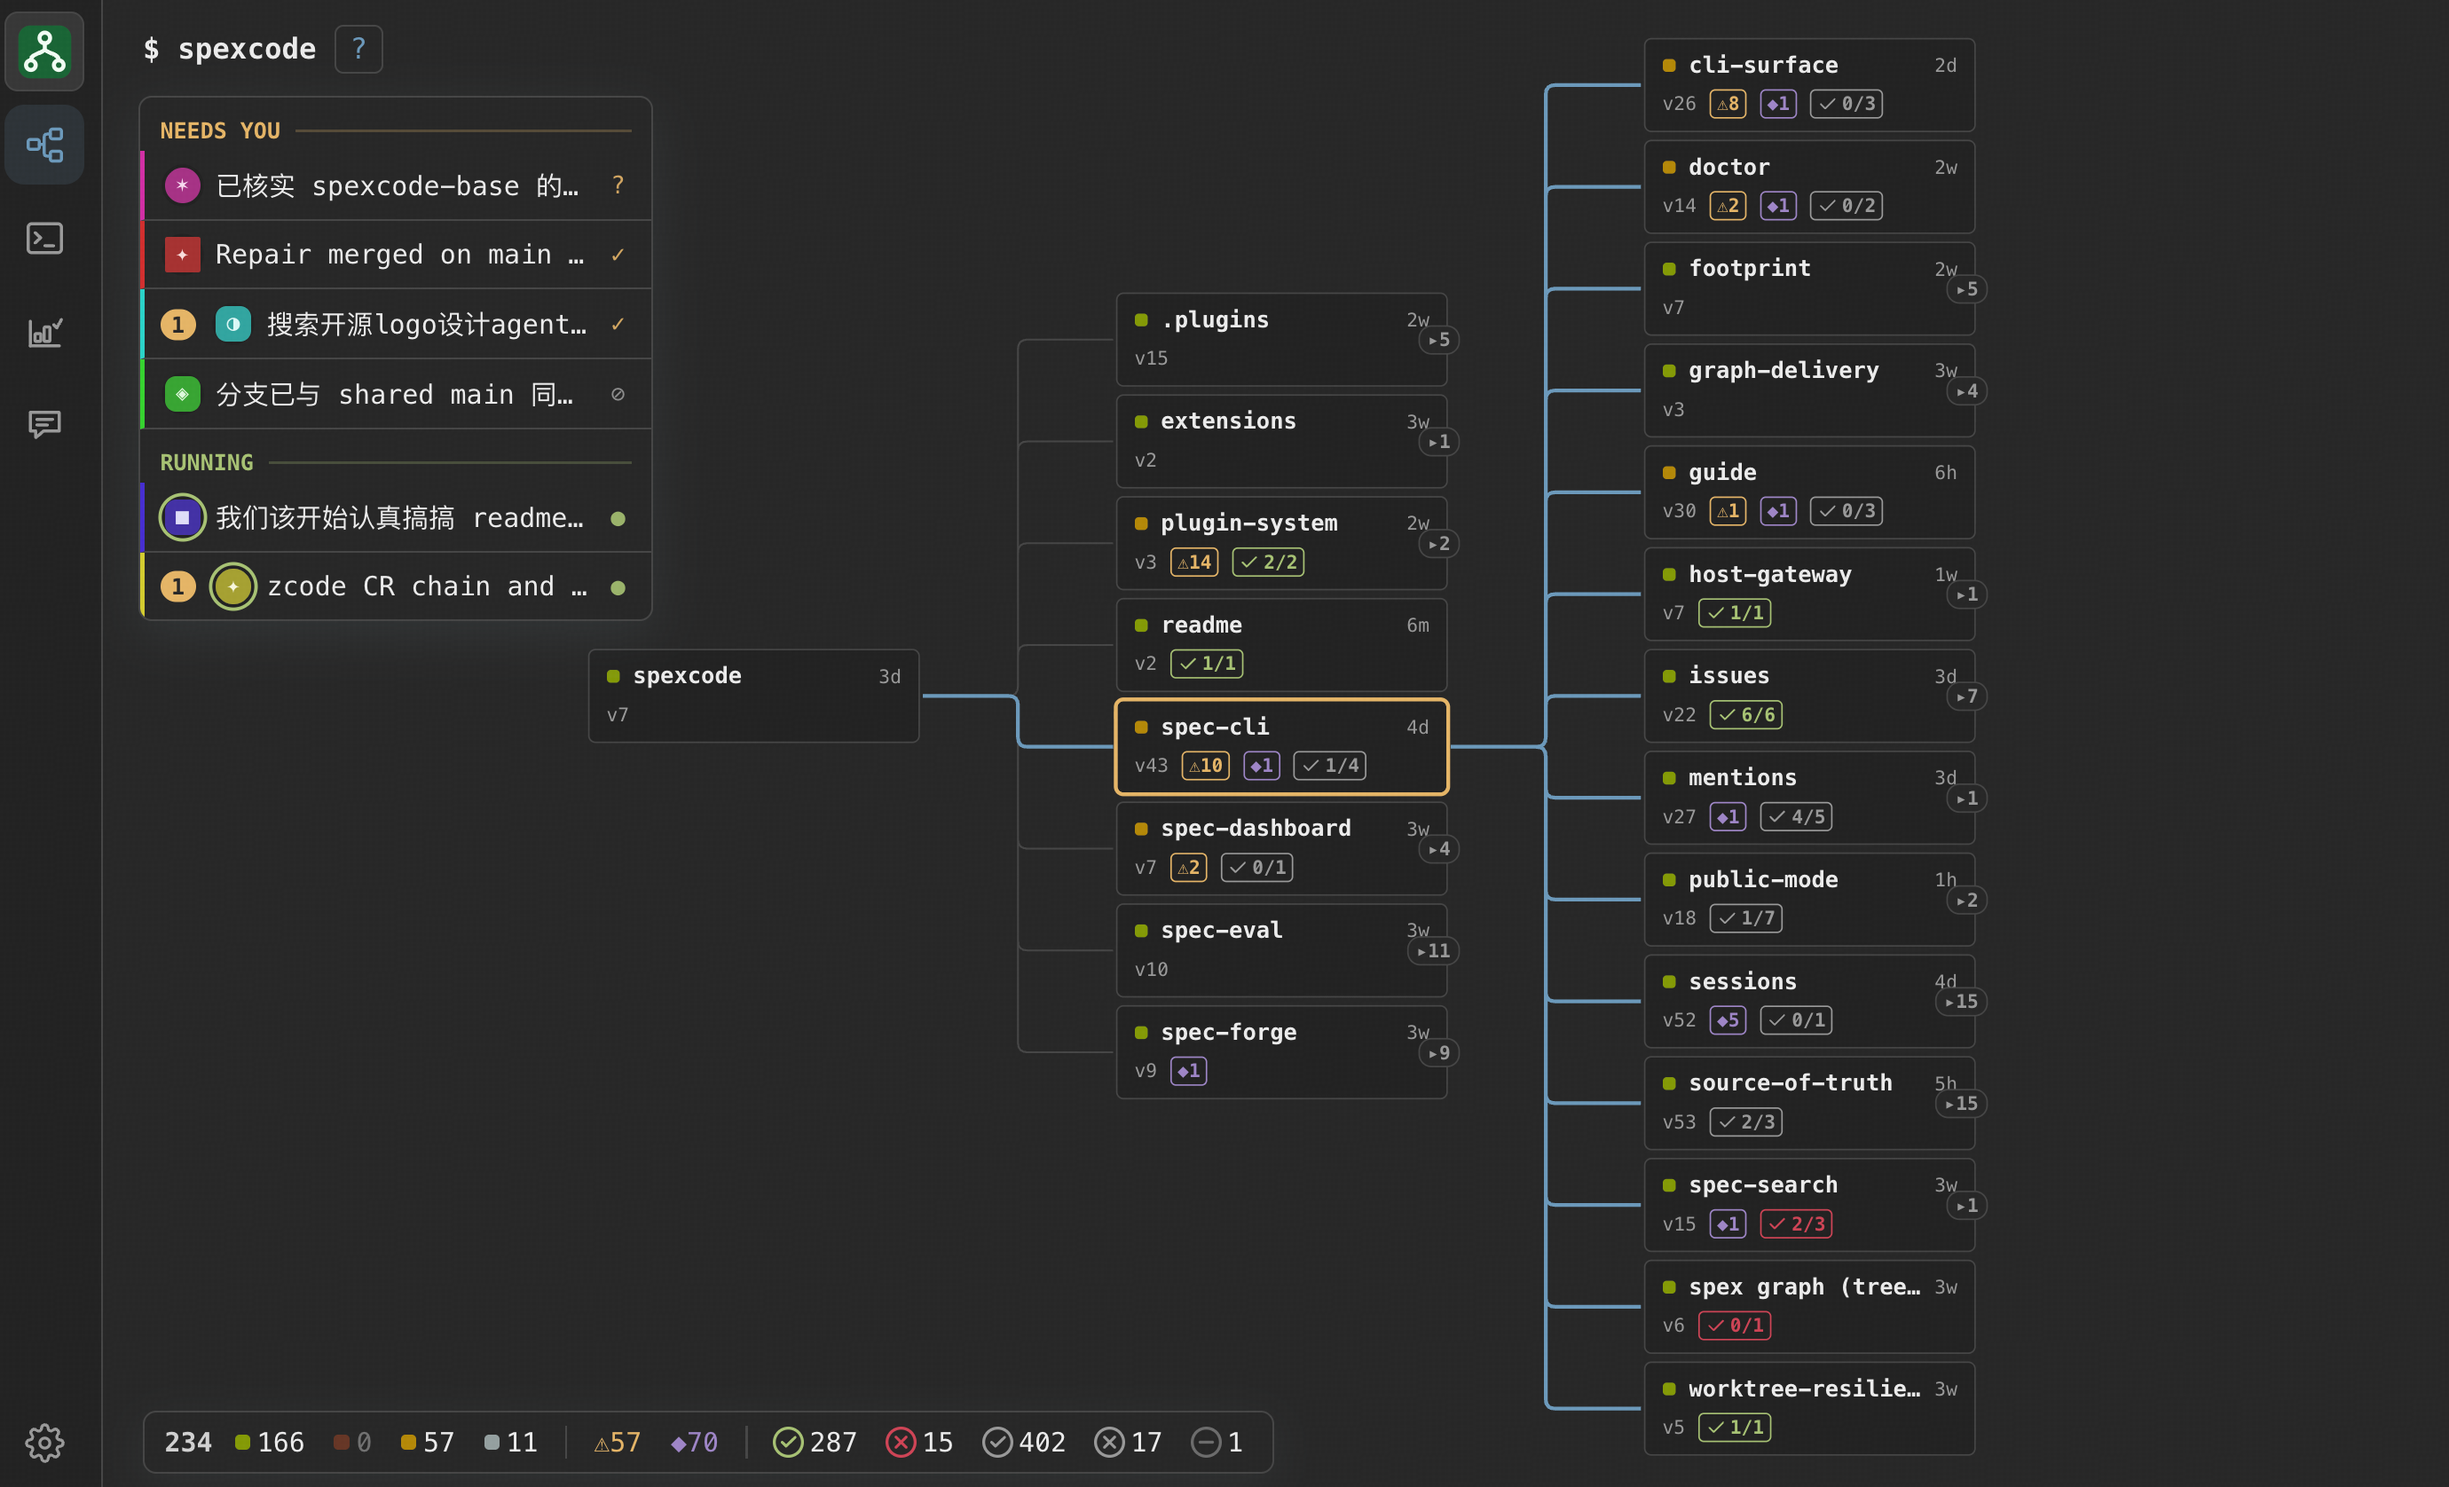
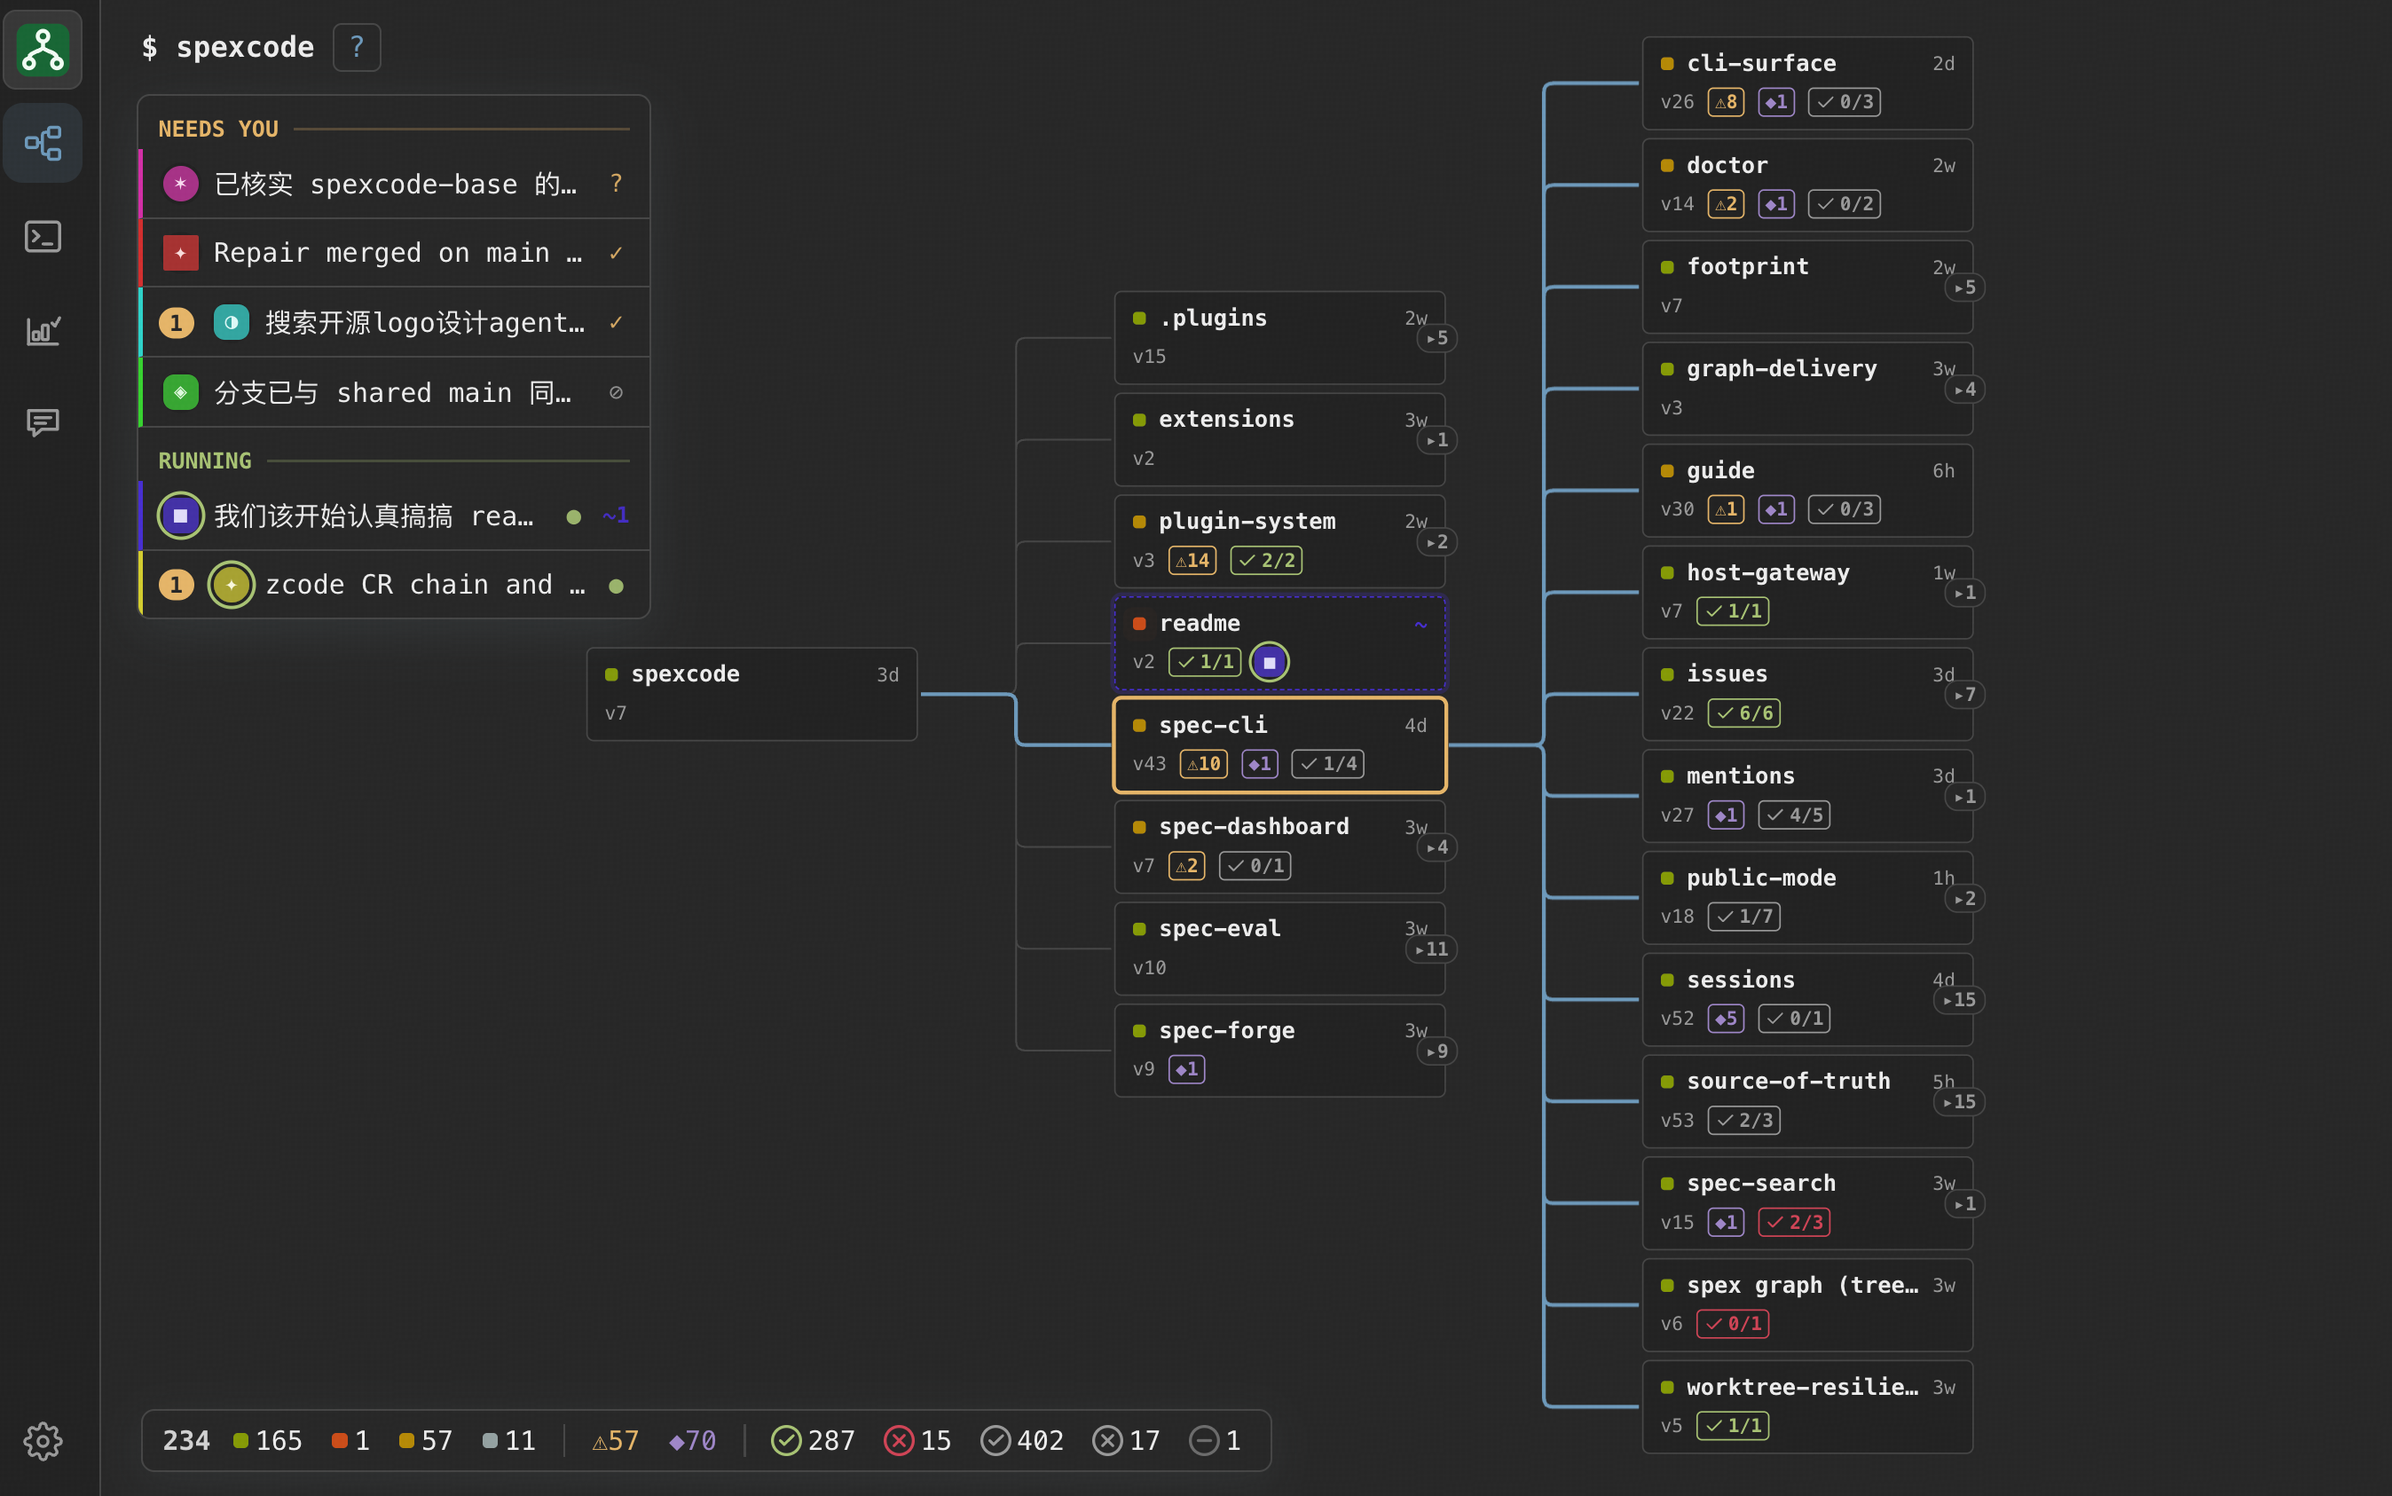
docs: newer board and eval screenshots; retire the readme spec node
The board screenshot now shows an agent avatar hovering on the node it edits; the eval screenshot
is the reading-review page. The readme spec node is withdrawn — the README stays an ordinary,
ungoverned document by the maintainer's call. Lint bypass: the governor-deletion integrity check
blocks orphaning README.md in-commit, but ungoverned README is the deliberate end state and the
final tree lints 0 errors.

Session: a4228d0b-9602-448e-a5b1-9cd8a38830b5

diff --git a/docs/README.zh-CN.md b/docs/README.zh-CN.md
@@ -141,10 +141,10 @@ commit,物化进 `CLAUDE.md`/`AGENTS.md` 的工作流规则承担其余——你
 
 上面的一切都有活的界面。`spex serve` + `spex dashboard`,然后:
 
-<img src="readme-graph.png" alt="spec 地图:SpexCode 自己的仓库在自己的看板上——每个节点带版本与 eval 徽标,左上是活的 session 栏">
+<img src="readme-graph.png" alt="spec 地图:SpexCode 自己的仓库在自己的看板上——每个节点带版本与 eval 徽标,正在被编辑的节点上悬浮着 agent 头像">
 
-*整个仓库一张地图——图中是 SpexCode 自己的看板。每个节点带着它的版本号和 eval 状态;左上角是活的
-session 栏(RUNNING 里那条,就是正在写这份 README 的 agent)。*
+*整个仓库一张地图——图中是 SpexCode 自己的看板。每个节点带着它的版本号和 eval 状态,正在被编辑的
+节点上悬浮着那个 agent 的头像;左上角是活的 session 栏。*
 
 <img src="readme-node.png" alt="在看板上打开一个节点:raw source 和 expanded spec、版本历史、所辖文件">
 

diff --git a/README.md b/README.md
@@ -159,11 +159,11 @@ stays task-only. More on this mode of working:
 
 Everything above has a live face. `spex serve` + `spex dashboard`, then:
 
-<img src="docs/readme-graph.png" alt="the spec map: SpexCode's own repo on its own board — per-node version and eval chips, live session rail top-left">
+<img src="docs/readme-graph.png" alt="the spec map: SpexCode's own repo on its own board — per-node version and eval chips, an agent avatar hovering on the node it is editing">
 
 *Your whole repo as one map — SpexCode's own board shown. Each node carries its version and eval
-state; the rail top-left is the live session console (the RUNNING entry is the agent writing this
-README).*
+state, an agent's avatar hovers on the node it is editing right now, and the rail top-left is the
+live session console.*
 
 <img src="docs/readme-node.png" alt="a node opened on the board: raw source and expanded spec, version history, governed file">
 
